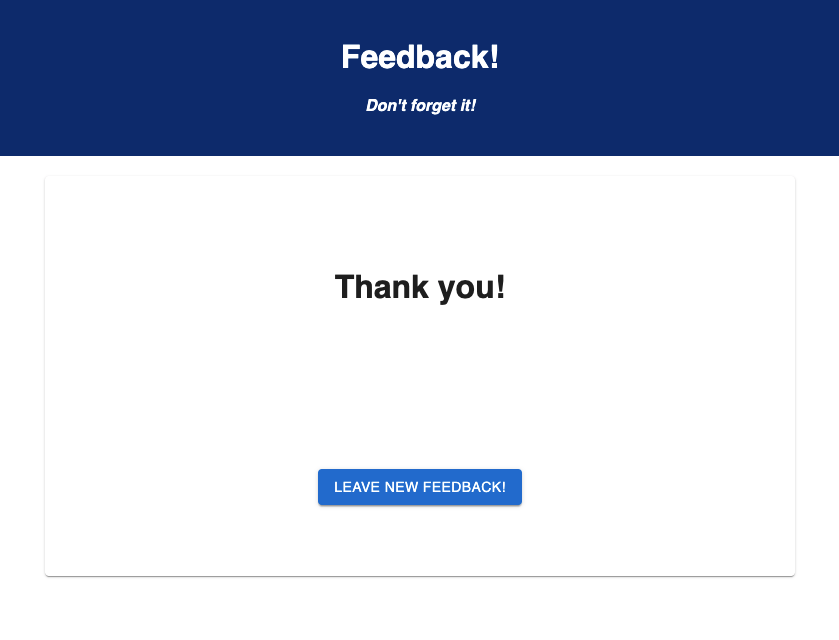
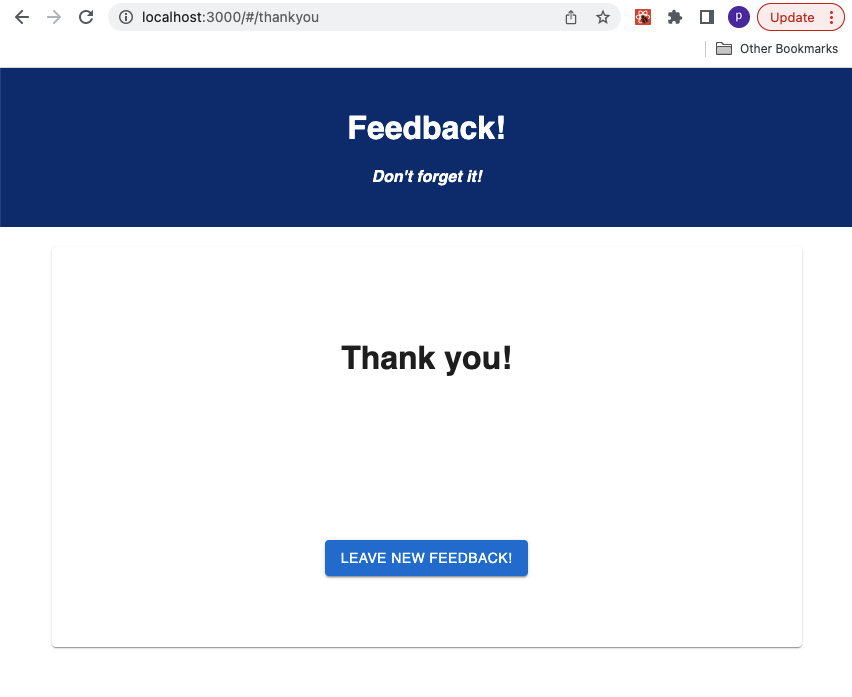
udpated images to include browser tab

diff --git a/README.md b/README.md
@@ -1,11 +1,9 @@
 ## Checklist
 
-- [x] screenshot pageThree
-- [x] screenshot pageFour
-- [x] screenshot pageAdmin
 - [ ] admin gif
 - [ ] update input validation
 - [ ] order admin when flagged by desc?
+- [ ] screenshot pageAdmin after above done
 
 
 
@@ -108,7 +106,7 @@ Now that the server is running, open a new terminal with `cmd + t` and start you
 npm run client
 ```
 
-`localhost:3000` should automatically open up in your browser. Otherwise, open up a new browser tab and type `localhost:3000` 
+A tab should automatically open up in your browser. Otherwise, open up a new browser tab and type `localhost:3000` 
 
 
 <p align="right">(<a href="#top">back to top</a>)</p>
